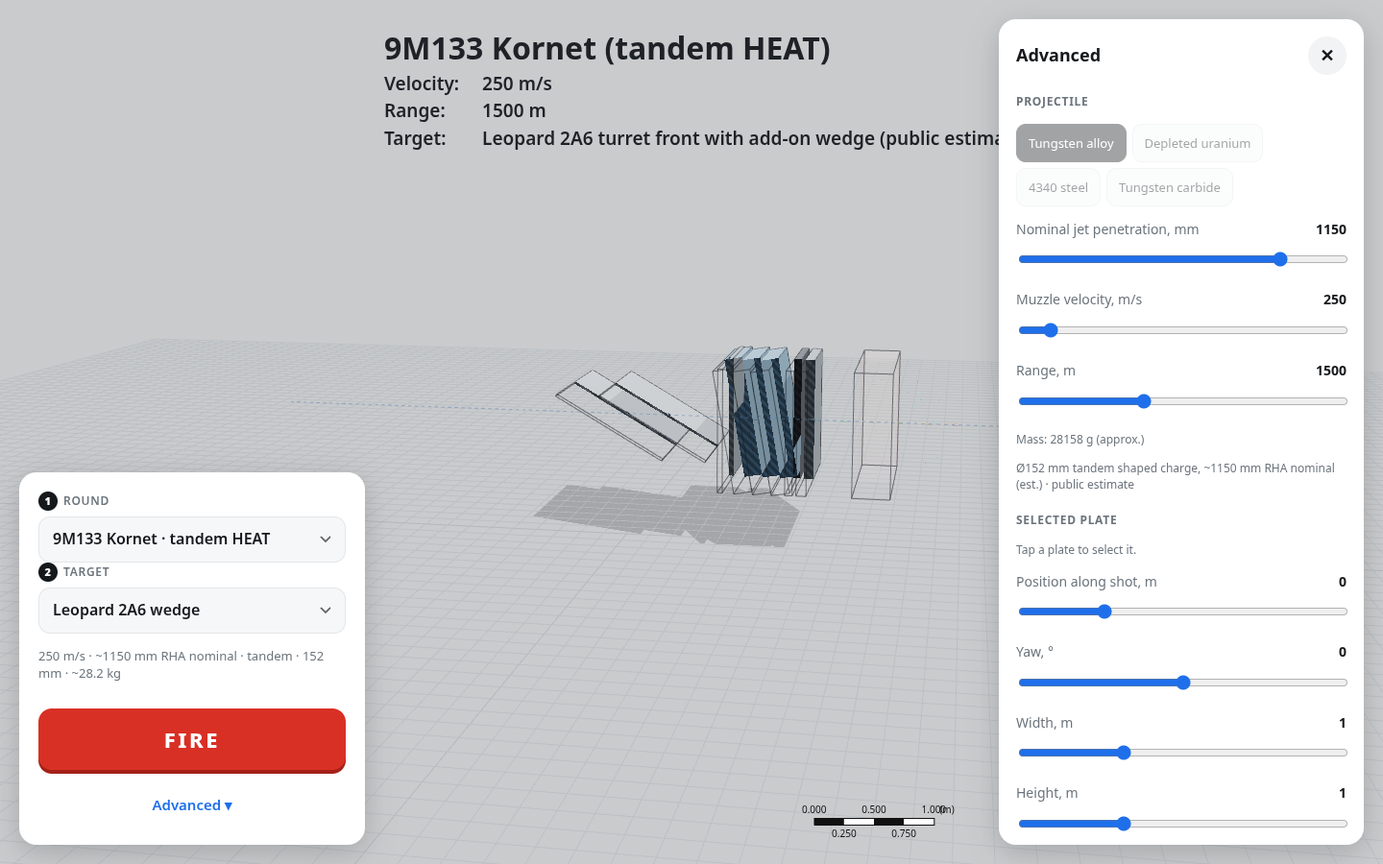
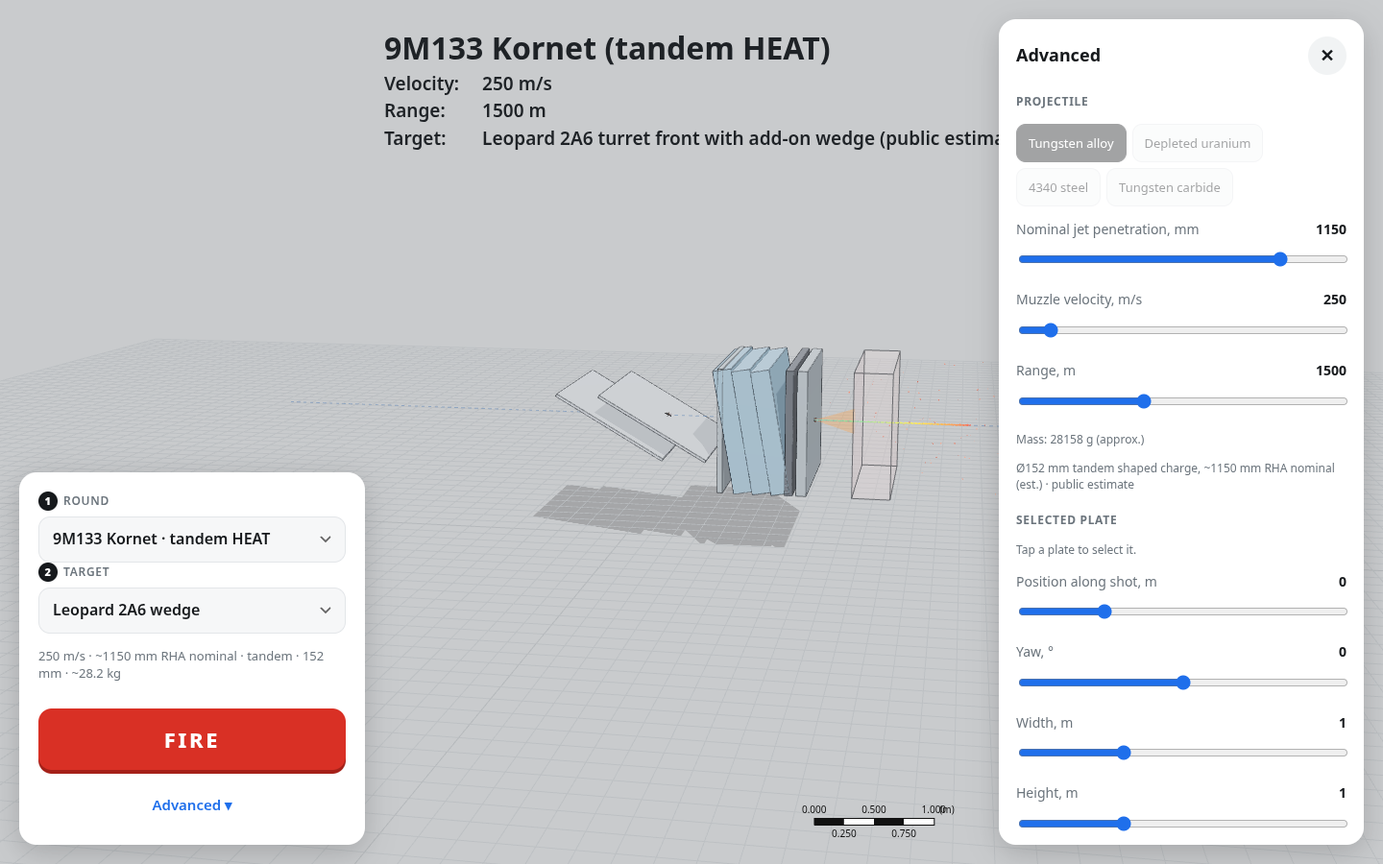
Stage C: damage visuals (shader cutout holes, crater lips, rear bulge + exit petals, ERA bricks, debris cone, mushrooming/break-up rod, HEAT jet particles, Inspect damage camera); sw v8

Changed region(s): [[0.4062, 0.4044, 0.625, 0.5911]]

diff --git a/app.js b/app.js
@@ -6,6 +6,7 @@ import { RoomEnvironment } from 'three/addons/environments/RoomEnvironment.js';
 import { PROJECTILES, CORES, MATERIALS, SCENARIOS, DISCLAIMER } from './data.js';
 import { simulate, impactVelocity, ribBoxes, semiInfRHA } from './physics.js';
 import { buildProjectile } from './projectile.js';
+import { holeHook, createDamage } from './damage.js';
 
 const $ = id => document.getElementById(id);
 const isTouch = matchMedia('(pointer: coarse)').matches || 'ontouchstart' in window;
@@ -37,7 +38,7 @@ function capMat(color, extra = {}) {
   const m = new THREE.MeshStandardMaterial({ color, roughness: .55, metalness: .25, side: THREE.DoubleSide, ...extra });
   m.onBeforeCompile = sh => { sh.fragmentShader = sh.fragmentShader.replace('#include <dithering_fragment>', `#include <dithering_fragment>
     if (!gl_FrontFacing) { float h = step(.5, fract((gl_FragCoord.x + gl_FragCoord.y) / 9.)); gl_FragColor = vec4(mix(diffuseColor.rgb * .55, diffuseColor.rgb * .8, h), 1.); }`); };
-  return regClip(m);
+  return regClip(holeHook(m));
 }
 // colour map (ANSYS-like rainbow)
 const CMAP = [[0, [.1, .2, .85]], [.25, [.1, .75, .95]], [.5, [.2, .85, .3]], [.75, [1, .85, .1]], [1, [.95, .15, .1]]];
@@ -58,7 +59,7 @@ function rodMat(color, rough, metal) {
 
 // ---------------- state ----------------
 const S = { proj: 'm829a3', core: 'du', D: 22, L: 800, pen: 500, v0: 1555, range: 1000, plates: [], target: '', mapMode: 0, sel: -1 };
-let plateMeshes = [], sim = null, simT = 0, playing = false, speed = 1, built = null;
+let inspecting = false, plateMeshes = [], sim = null, simT = 0, playing = false, speed = 1, built = null;
 const clone = o => JSON.parse(JSON.stringify(o));
 
 // ---------------- plates ----------------
@@ -134,7 +135,7 @@ $('cmap').onclick = () => { S.mapMode = 1 - S.mapMode; $('cmap').textContent = '
 $('gMove').onclick = () => { tc.setMode('translate'); pillset(); }; $('gRot').onclick = () => { tc.setMode('rotate'); tc.showX = false; pillset(); };
 const pillset = () => { $('gMove').classList.toggle('on', tc.mode === 'translate'); $('gRot').classList.toggle('on', tc.mode === 'rotate'); tc.showX = tc.mode === 'translate'; };
 let autoFrame = true; $('autoF').onclick = () => { autoFrame = !autoFrame; $('autoF').classList.toggle('on', autoFrame); };
-$('rview').onclick = () => frame(); $('qual').onclick = () => setQuality(quality === 'high' ? 'low' : 'high');
+$('rview').onclick = () => frame(); $('insp').onclick = () => inspect(); $('qual').onclick = () => setQuality(quality === 'high' ? 'low' : 'high');
 $('pp').onclick = () => togglePlay(); $('fire').onclick = () => fire();
 document.querySelectorAll('[data-sp]').forEach(b => b.onclick = () => { speed = +b.dataset.sp; document.querySelectorAll('[data-sp]').forEach(x => x.classList.toggle('on', x === b)); });
 $('scrub').oninput = e => { if (!sim) return; playing = false; $('pp').textContent = '▶'; simT = +e.target.value / 1000 * sim.tEnd; };
@@ -196,8 +197,10 @@ function buildRod() {
   placeRodIdle(); spec();
 }
 function placeRodIdle() { if (!rod) return; const first = Math.min(0, ...S.plates.map(p => p.x - p.t / 2000 - .1)); rod.group.position.set(first - .35, 0, 0); rod.group.rotation.set(0, 0, 0); rod.group.visible = true; tipPlane.constant = 1e3; mapU.uOn.value = 0; }
-let holes = [], debrisMesh = null, jet = null, tipCap = null, flyers = [];
+let holes = [], debrisMesh = null, jet = null, tipCap = null, flyers = [], damage = null;
 function clearSim() {
+  inspecting = false; if (debrisMesh) debrisMesh.visible = true;
+  damage?.dispose(); damage = null;
   sim = null; playing = false; for (const o of [...dyn.children]) if (!rod || o !== rod.group) { dyn.remove(o); o.traverse?.(x => x.geometry?.dispose()); }
   holes = []; debrisMesh = null; jet = null; tipCap = null; flyers = []; plateMeshes.forEach(m => { m.visible = true; m.scale.set(1, 1, 1); });
   placeRodIdle(); drawLegend(); $('rtab').innerHTML = 'Press FIRE to run the shot.'; $('verdict').classList.remove('show'); drawChart(); $('tread').textContent = '0.0 µs'; $('scrub').value = 0; overlay();
@@ -211,7 +214,7 @@ function fire() {
   const rimMat = regClip(new THREE.MeshBasicMaterial({ color: 0xff7a20, transparent: true, opacity: .9, polygonOffset: true, polygonOffsetFactor: -4, toneMapped: false }));
   for (const h of sim.holes) {
     const seg = sim.segs[h.seg], pm = plateMeshes[seg.plate]; const ch = new THREE.Mesh(new THREE.CylinderGeometry(h.r, h.r, 1, 20, 1, true).rotateZ(Math.PI / 2), holeMat); ch.visible = false; dyn.add(ch);
-    const discs = []; for (const s of [h.sIn, h.perforated ? h.sEnd : null]) { if (s == null) continue;
+    const discs = []; for (const s of []) { if (s == null) continue;
       const d = new THREE.Mesh(new THREE.CircleGeometry(h.r * 1.15, 24), holeMat); const r = new THREE.Mesh(new THREE.RingGeometry(h.r * 1.15, h.r * 1.6, 24), rimMat.clone()); regClip(r.material);
       for (const o of [d, r]) { o.position.set(s, 0, 0); o.quaternion.copy(pm.quaternion); o.rotateY(s === h.sIn ? -Math.PI / 2 : Math.PI / 2); o.translateZ(.0015); o.scale.y = 1; o.visible = false; dyn.add(o); }
       const cosO = Math.cos(THREE.MathUtils.degToRad(seg.obl)); d.scale.x = r.scale.x = 1 / Math.max(cosO, .2); discs.push([d, r, s]); }
@@ -223,7 +226,8 @@ function fire() {
     for (let i = 0; i < N; i++) debrisMesh.setColorAt(i, new THREE.Color(1, 1, 1)); dyn.add(debrisMesh); }
   if (p.type === 'CE') { jet = new THREE.Mesh(new THREE.CylinderGeometry(1, 1, 1, 10).rotateZ(Math.PI / 2).translate(.5, 0, 0), rodMat(0xffaa66, .3, .8)); jet.visible = false; dyn.add(jet); }
   tipCap = new THREE.Mesh(new THREE.SphereGeometry(1, 16, 12), regClip(new THREE.MeshBasicMaterial({ color: 0xffaa55, toneMapped: false }))); tipCap.visible = false; dyn.add(tipCap);
-  for (const e of sim.era) { const pm = plateMeshes[e.plate]; const f = []; for (const s of [-1, 1]) { const m = new THREE.Mesh(new THREE.BoxGeometry(S.plates[e.plate].t / 4000, S.plates[e.plate].h, S.plates[e.plate].w), pm.material); m.quaternion.copy(pm.quaternion); m.visible = false; dyn.add(m); f.push({ m, s }); } flyers.push({ e, pm, f }); }
+  for (const e of []) { const pm = plateMeshes[e.plate]; const f = []; for (const s of [-1, 1]) { const m = new THREE.Mesh(new THREE.BoxGeometry(S.plates[e.plate].t / 4000, S.plates[e.plate].h, S.plates[e.plate].w), pm.material); m.quaternion.copy(pm.quaternion); m.visible = false; dyn.add(m); f.push({ m, s }); } flyers.push({ e, pm, f }); }
+  damage = createDamage({ sim, S, plateMeshes, dyn, quality, cmap, regClip, rodD: S.D / 1000, cal: (p.cal || 100) / 1000 });
   simT = 0; playing = true; $('pp').textContent = '❚❚'; drawLegend(); showResults(); closePop(); select(-1, false); if (autoFrame) frame(true);
 }
 function sampleAt(t) { const a = sim.samples; let lo = 0, hi = a.length - 1; if (t <= a[0].t) return a[0]; if (t >= a[hi].t) return a[hi];
@@ -238,13 +242,15 @@ function updateSim() {
     else { const dtR = t - sim.ric.t, pl = S.plates[sim.ric.plate], a = THREE.MathUtils.degToRad(pl.ax), dir = new THREE.Vector3(Math.cos(a), Math.sin(a), 0).normalize(); // deflect along the face
       rod.group.position.set(sim.ric.s, 0, 0).addScaledVector(dir, v0 * .75 * dtR); rod.group.rotation.set(0, 0, a); tipPlane.constant = 1e3; }
     const eroding = s.seg >= 0 && s.u < s.v - 1; mapU.uHot.value = Math.max(mapU.uHot.value * .0 + (eroding ? 1 : 0), s.L < rod.length * .9 ? .55 * Math.exp(-(t - (sim.segEvents.at(-1)?.tOut || t)) / 3e-4) : 0);
-    tipCap.visible = eroding && !ric; if (tipCap.visible) { tipCap.position.set(s.tip, 0, 0); tipCap.scale.setScalar(S.D / 1000 * .75); tipCap.material.color.setRGB(...cmap(S.mapMode ? 1 : s.v / v0)); }
+    tipCap.visible = eroding && !ric; if (tipCap.visible) { tipCap.position.set(s.tip, 0, 0); tipCap.scale.set(S.D / 1000 * .35, S.D / 1000 * (.75 + .35 * Math.min(1, (s.v - s.u) / 900)), S.D / 1000 * (.75 + .35 * Math.min(1, (s.v - s.u) / 900) /* mushroomed head */)); tipCap.material.color.setRGB(...cmap(S.mapMode ? 1 : s.v / v0)); }
     rod.group.visible = s.L > 0.001 || t < 1e-9;
   } else {
     const det = t >= sim.tDet; rod.group.visible = !det || t < sim.tDet + 4e-5; rod.group.position.set((det ? sim.samples[40].body : s.body) - 0, 0, 0); tipPlane.constant = 1e3; mapU.uVal.value = .1;
-    jet.visible = det && s.L > 0; if (jet.visible) { const tail = sim.sDet + Math.min(2000 * (t - sim.tDet), Math.max(0, s.tip - sim.sDet) * .6); const r = p.cal / 1000 * .035; jet.position.set(tail, 0, 0); jet.scale.set(Math.max(.001, s.tip - tail), r, r); mapU.uJet.value = 1; mapU.uTip.value = s.tip; mapU.uTail.value = tail; }
+    jet.visible = false; if (jet.visible) { const tail = sim.sDet + Math.min(2000 * (t - sim.tDet), Math.max(0, s.tip - sim.sDet) * .6); const r = p.cal / 1000 * .035; jet.position.set(tail, 0, 0); jet.scale.set(Math.max(.001, s.tip - tail), r, r); mapU.uJet.value = 1; mapU.uTip.value = s.tip; mapU.uTail.value = tail; }
     tipCap.visible = det && s.seg >= 0; if (tipCap.visible) { tipCap.position.set(s.tip, 0, 0); tipCap.scale.setScalar(p.cal / 1000 * .06); tipCap.material.color.setRGB(...cmap(s.v / 8500)); }
   }
+  damage?.update(t, s, sampleAt);
+  if (inspecting) { rod.group.visible = false; tipCap.visible = false; damage?.hideTransient(); if (debrisMesh) debrisMesh.visible = false; }
   for (const { h, ch, discs } of holes) { const tip = Math.min(sampleAt(Math.min(t, h.t1)).tip, h.sEnd); const on = t >= h.t0; const len = Math.max(.0005, tip - h.sIn);
     ch.visible = on; ch.position.set(h.sIn + len / 2, 0, 0); ch.scale.set(len, 1, 1);
     for (const [d, r, sx] of discs) { const vis = on && (sx === h.sIn || t >= h.t1); d.visible = r.visible = vis; const age = t - (sx === h.sIn ? h.t0 : h.t1); r.material.color.setRGB(...cmap(Math.max(.05, 1 - age / 4e-4))); r.material.opacity = Math.max(.25, 1 - age / 6e-4); } }
@@ -313,6 +319,12 @@ function frame(shot = false) { const b = new THREE.Box3().setFromObject(plateGro
   const tgt = new THREE.Vector3(cx, cy - (narrow ? .22 : .02) * d * vis, 0), pos = new THREE.Vector3(cx + d * .18, cy + d * .2, d);
   if (shot) camTween = { t: 0, p0: camera.position.clone(), q0: controls.target.clone(), p1: pos, q1: tgt }; else { camTween = null; controls.target.copy(tgt); camera.position.copy(pos); controls.update(); } }
 controls.addEventListener('start', () => { camTween = null; });
+// close-up on the damage: exit side of the last perforated plate (or crater of the last plate hit)
+
+function inspect(side = 'rear') { if (!sim || !sim.holes.length) return false; const h = [...sim.holes].reverse().find(h => h.perforated) || sim.holes.at(-1);
+  const x = side === 'rear' && h.perforated ? h.sEnd : h.sIn, d = Math.max(.16, (S.D || 30) / 1000 * 12), sgn = side === 'rear' && h.perforated ? 1 : -1;
+  const tgt = new THREE.Vector3(x, 0, 0), pos = new THREE.Vector3(x + sgn * d * .4, d * .3, d * .9); inspecting = true;
+  camTween = { t: 0, p0: camera.position.clone(), q0: controls.target.clone(), p1: pos, q1: tgt }; return true; }
 addEventListener('resize', () => { camera.aspect = innerWidth / innerHeight; camera.updateProjectionMatrix(); renderer.setSize(innerWidth, innerHeight); });
 camera.aspect = innerWidth / innerHeight; camera.updateProjectionMatrix();
 let last = performance.now();
@@ -330,5 +342,5 @@ try { if (location.hash.startsWith('#s=')) { const o = dec(location.hash.slice(3
 if (!booted) { buildRod(); loadScenario('strv103'); }
 setQuality(quality); toggleSection(false); pillset();
 if ('serviceWorker' in navigator && location.protocol !== 'file:') navigator.serviceWorker.register('./sw.js').catch(e => console.warn('SW', e));
-window.__app = { S, loadScenario, openAdv: () => setAdv(true), markCustom, addPlate: () => $('add').click(), editPlate, setProj: k => setProj(k), fire, seek: f => { if (sim) { playing = false; $('pp').textContent = '▶'; simT = f * sim.tEnd; } }, section: toggleSection, setMap: m => { S.mapMode = m; drawLegend(); }, get sim() { return sim; }, select, frame };
+window.__app = { inspect, camera, controls, plateMeshes: () => plateMeshes, S, loadScenario, openAdv: () => setAdv(true), markCustom, addPlate: () => $('add').click(), editPlate, setProj: k => setProj(k), fire, seek: f => { if (sim) { playing = false; $('pp').textContent = '▶'; simT = f * sim.tEnd; } }, section: toggleSection, setMap: m => { S.mapMode = m; drawLegend(); }, get sim() { return sim; }, select, frame };
 window.__ready = true;

diff --git a/damage.js b/damage.js
@@ -1,0 +1,74 @@
+// Damage visuals (stage C): plate cutout holes, entry crater lips, rear-face bulge + exit petals, ERA bricks,
+// behind-armor debris cone, rod mushroom / break-up fragments, HEAT jet particle stream. Counts scale with quality.
+import * as THREE from 'three';
+const X = new THREE.Vector3(1, 0, 0), tmpM = new THREE.Matrix4(), tmpQ = new THREE.Quaternion(), tmpS = new THREE.Vector3(), tmpP = new THREE.Vector3(), tmpC = new THREE.Color();
+const rnd = (s => () => (s = (s * 16807) % 2147483647) / 2147483647)(12345);
+// plate material hook: discard fragments inside the shot channel (world x-axis cylinder) up to the current crater bottom
+export function holeHook(m) { m.userData.hole = { value: new THREE.Vector4(0, -1e3, 0, -1e3) }; const prev = m.onBeforeCompile;
+  m.onBeforeCompile = (sh, r) => { prev && prev(sh, r); sh.uniforms.uHole = m.userData.hole;
+    sh.vertexShader = 'varying vec3 vWP;\n' + sh.vertexShader.replace('#include <project_vertex>', '#include <project_vertex>\n vWP = (modelMatrix * vec4(transformed, 1.)).xyz;');
+    sh.fragmentShader = 'varying vec3 vWP; uniform vec4 uHole;\n' + sh.fragmentShader.replace('void main() {', 'void main() {\n if (uHole.z > .5 && length(vWP.yz) < uHole.x && vWP.x < uHole.y && vWP.x > uHole.w) discard;'); };
+  m.customProgramCacheKey = () => 'plate-hole'; return m; }
+export function createDamage({ sim, S, plateMeshes, dyn, quality, cmap, regClip, rodD, cal }) {
+  const lo = quality !== 'high', items = [], ke = sim.type === 'KE', v0 = sim.vImpact;
+  const add = o => { dyn.add(o); return o; };
+  const lipMat = regClip(new THREE.MeshStandardMaterial({ color: 0x3a3430, roughness: .9, metalness: .2 }));
+  const glow = regClip(new THREE.MeshBasicMaterial({ color: 0xff7a20, transparent: true, opacity: .9, toneMapped: false, side: THREE.DoubleSide }));
+  // ---- holes: cutout + lip + bulge/petals ----
+  const holes = sim.holes.map(h => { const seg = sim.segs[h.seg], pm = plateMeshes[seg.plate]; if (!pm) return null;
+    const n = X.clone().applyQuaternion(pm.quaternion); if (n.x < 0) n.negate(); const tanO = Math.tan(THREE.MathUtils.degToRad(Math.min(seg.obl, 80)));
+    const r = Math.max(h.r, ke ? rodD * .6 : cal * .03);
+    const qn = new THREE.Quaternion().setFromUnitVectors(new THREE.Vector3(0, 0, 1), n);
+    const lip = add(new THREE.Mesh(new THREE.TorusGeometry(r * 1.35, r * .35, 6, lo ? 12 : 24), lipMat)); lip.position.set(h.sIn, 0, 0).addScaledVector(n, -.001); lip.quaternion.copy(qn); lip.visible = false;
+    const ring = add(new THREE.Mesh(new THREE.RingGeometry(r * .95, r * 1.5, lo ? 12 : 24), glow.clone())); regClip(ring.material); ring.position.copy(lip.position).addScaledVector(n, -.001); ring.quaternion.copy(qn); ring.visible = false;
+    const pmat = pm.material, petMat = regClip(new THREE.MeshStandardMaterial({ color: 0x5a5048, roughness: .7, metalness: .5, side: THREE.DoubleSide, emissive: 0x2a0d00 })); const rb = r * 3.2;
+    const bulge = add(new THREE.Mesh(new THREE.SphereGeometry(1, lo ? 10 : 18, lo ? 6 : 10, 0, Math.PI * 2, 0, Math.PI / 2), pmat)); bulge.quaternion.setFromUnitVectors(new THREE.Vector3(0, 1, 0), n); bulge.position.set(h.sEnd, 0, 0); bulge.visible = false;
+    const np = lo ? 4 : 7, petals = []; if (h.perforated) for (let i = 0; i < np; i++) { const hw = Math.PI * r / np * 1.05, pl = r * 1.4; const g = new THREE.BufferGeometry().setFromPoints([new THREE.Vector3(-hw, 0, 0), new THREE.Vector3(hw, 0, 0), new THREE.Vector3(0, pl, 0)]); g.computeVertexNormals();
+      const piv = new THREE.Group(); const p = new THREE.Mesh(g, petMat); piv.add(p); piv.position.set(h.sEnd, 0, 0); piv.quaternion.copy(qn); piv.rotateZ(i / np * Math.PI * 2); piv.visible = false; add(piv); petals.push({ piv, p }); }
+    return { h, seg, pm, r, tanO, lip, ring, bulge, rb, petals }; }).filter(Boolean);
+  // ---- ERA bricks ----
+  const bricks = [];
+  for (const e of sim.era) { const pm = plateMeshes[e.plate], p = S.plates[e.plate]; if (!pm) continue; const k = lo ? 3 : 5, n = 2 * k * k;
+    const im = add(new THREE.InstancedMesh(new THREE.BoxGeometry(p.t / 2000, p.h / k * .96, p.w / k * .96), regClip(new THREE.MeshStandardMaterial({ color: pm.material.color, roughness: .6, metalness: .25 })), n)); im.frustumCulled = false; im.visible = false;
+    const nrm = X.clone().applyQuaternion(pm.quaternion), parts = [];
+    for (let s = 0; s < 2; s++) for (let i = 0; i < k; i++) for (let j = 0; j < k; j++) { const off = new THREE.Vector3((s ? 1 : -1) * p.t / 4000, (i + .5) / k * p.h - p.h / 2, (j + .5) / k * p.w - p.w / 2).applyQuaternion(pm.quaternion);
+      const rad = off.clone().sub(nrm.clone().multiplyScalar(off.dot(nrm))); const vel = nrm.clone().multiplyScalar((s ? 1 : -1) * (250 + 150 * rnd())).addScaledVector(rad.normalize(), 60 + 120 * rnd());
+      parts.push({ off, vel, spin: new THREE.Vector3(rnd() - .5, rnd() - .5, rnd() - .5).normalize(), w: 2e4 * (.5 + rnd()) }); }
+    bricks.push({ e, pm, im, parts }); }
+  // ---- behind-armor debris cone (sized from physics debris spread) ----
+  let cone = null; const lastPerf = [...holes].reverse().find(o => o.h.perforated);
+  if (lastPerf && sim.debris.length) { const ang = sim.debris.map(d => Math.atan2(Math.hypot(d.v[1], d.v[2]), Math.max(d.v[0], 1))).sort((a, b) => a - b); const half = Math.min(.7, ang[Math.floor(ang.length * .9)] || .3);
+    const m = add(new THREE.Mesh(new THREE.ConeGeometry(Math.tan(half), 1, lo ? 16 : 32, 1, true).rotateZ(Math.PI / 2).translate(.5, 0, 0), regClip(new THREE.MeshBasicMaterial({ color: 0xffa040, transparent: true, opacity: .25, depthWrite: false, side: THREE.DoubleSide, toneMapped: false }))));
+    m.position.set(lastPerf.h.sEnd, 0, 0); m.visible = false; cone = { m, t0: lastPerf.h.t1, half, v: Math.max(300, ke ? sim.vres || 600 : 1500) }; }
+  // ---- rod fragments: ERA broken segments + break-up when stopped ----
+  const frags = [];
+  if (ke) { const fm = regClip(new THREE.MeshStandardMaterial({ color: 0x8a8f94, roughness: .4, metalness: .8 }));
+    sim.segEvents.forEach(ev => { const nt = ev.notes.find(n => /ERA: −(\d+) mm rod/.test(n)); if (!nt) return; const dL = +nt.match(/−(\d+)/)[1] / 1000; if (dL < .005) return;
+      const nf = lo ? 2 : 4; for (let i = 0; i < nf; i++) frags.push({ t0: ev.tIn ?? 0, p: [sim.segs[ev.seg].sIn, 0, 0], v: [v0 * .25, (rnd() - .3) * 160, (rnd() - .5) * 120], len: dL / nf, w: 3e3 * (rnd() + .5) }); });
+    if (sim.outcome === 'STOPPED') { const last = sim.samples.at(-1); const nf = lo ? 3 : 7; for (let i = 0; i < nf; i++) frags.push({ t0: last.t - 2e-5, p: [last.tip - rodD, 0, 0], v: [-40 - 60 * rnd(), (rnd() - .5) * 120, (rnd() - .5) * 120], len: rodD * (1 + 2 * rnd()), w: 5e3 * rnd() }); }
+    for (const f of frags) { f.m = add(new THREE.Mesh(new THREE.CylinderGeometry(rodD / 2, rodD / 2, f.len, 8).rotateZ(Math.PI / 2), fm)); f.m.visible = false; } }
+  // ---- jet particle stream ----
+  let jetP = null; if (!ke) { const n = lo ? 40 : 140; const im = add(new THREE.InstancedMesh(new THREE.SphereGeometry(1, 6, 4), regClip(new THREE.MeshBasicMaterial({ toneMapped: false })), n)); im.frustumCulled = false; im.visible = false;
+    for (let i = 0; i < n; i++) im.setColorAt(i, tmpC.setRGB(1, 1, 1)); jetP = { im, n, tb: 2.16e-6 * cal * 1000 }; }
+  return {
+    update(t, s, sampleAt) {
+      for (const o of holes) { const { h, pm, r, tanO } = o; const on = t >= h.t0; const tip = Math.min(sampleAt(Math.min(t, h.t1)).tip, h.sEnd), done = h.perforated && t >= h.t1;
+        pm.material.userData.hole?.value.set(r, done ? h.sEnd + r * tanO + .01 : tip, on ? 1 : 0, h.sIn - r * tanO - .02);
+        o.lip.visible = on; o.ring.visible = on; const age = t - h.t0; o.ring.material.color.setRGB(...cmap(Math.max(.05, 1 - age / 4e-4))); o.ring.material.opacity = Math.max(.15, 1 - age / 6e-4);
+        const rem = h.sEnd - tip, Deff = r * 2; const bk = on && !done ? THREE.MathUtils.clamp(1 - rem / (2.5 * Deff), 0, 1) : (done ? 0 : 0);
+        const stayBulge = !h.perforated && on && rem < 2.5 * Deff; o.bulge.visible = bk > .01 || stayBulge; if (o.bulge.visible) { const kk = Math.max(bk, stayBulge ? 1 - rem / (2.5 * Deff) : 0); o.bulge.scale.set(o.rb * (.5 + .5 * kk), o.rb * .6 * kk + 1e-4, o.rb * (.5 + .5 * kk)); }
+        const pa = done ? Math.min(1, (t - h.t1) / 6e-5) : 0; for (const { piv, p } of o.petals) { piv.visible = done; p.rotation.x = 0; p.position.set(0, o.r, 0); p.rotation.set(pa * 1.2, 0, 0); } }
+      for (const b of bricks) { const on = t >= b.e.t0; b.im.visible = on; b.pm.visible = !on; if (!on) continue; const age = Math.max(0, t - b.e.t0);
+        b.parts.forEach((q, i) => { tmpP.copy(b.pm.position).add(q.off).addScaledVector(q.vel, age); tmpQ.setFromAxisAngle(q.spin, age * q.w).multiply(b.pm.quaternion); tmpM.compose(tmpP, tmpQ, tmpS.set(1, 1, 1)); b.im.setMatrixAt(i, tmpM); }); b.im.instanceMatrix.needsUpdate = true; }
+      if (cone) { const age = t - cone.t0, on = age > 0 && age < 1.2e-3; cone.m.visible = on; if (on) { const L = Math.min(.6, .03 + cone.v * age * .4); cone.m.scale.set(L, L, L); cone.m.material.opacity = .3 * (1 - age / 1.2e-3); } }
+      for (const f of frags) { const age = t - f.t0; f.m.visible = age > 0; if (age > 0) { f.m.position.set(f.p[0] + f.v[0] * age, f.p[1] + f.v[1] * age, f.p[2] + f.v[2] * age); f.m.rotation.set(0, age * f.w * .3, age * f.w); } }
+      if (jetP) { const det = t >= sim.tDet, { im, n, tb } = jetP; im.visible = det && s.L > 0 && s.tip > sim.sDet; if (im.visible) { const tail = sim.sDet + Math.min(2000 * (t - sim.tDet), Math.max(0, s.tip - sim.sDet) * .6), len = Math.max(.001, s.tip - tail);
+          const broken = t - sim.tDet > tb, r0 = cal * .07; // visually thickened ~2× for readability
+          for (let i = 0; i < n; i++) { const f = i / (n - 1); const jit = broken ? (rnd() - .5) * .3 / n : 0; const x = tail + len * Math.min(1, Math.max(0, f + jit)); const rr = r0 * (broken ? .55 + .3 * ((i * 7) % 3) / 2 : .8) * (.6 + .4 * f);
+            tmpM.compose(tmpP.set(x, broken ? (rnd() - .5) * r0 * .4 : 0, broken ? (rnd() - .5) * r0 * .4 : 0), tmpQ.identity(), tmpS.set(broken ? rr : Math.max(rr, len / n * .9), rr, rr)); im.setMatrixAt(i, tmpM); im.setColorAt(i, tmpC.setRGB(...cmap(.25 + .75 * f))); }
+          im.instanceMatrix.needsUpdate = true; im.instanceColor.needsUpdate = true; } }
+    },
+    hideTransient() { if (cone) cone.m.visible = false; for (const f of frags) f.m.visible = false; },
+    dispose() { for (const o of holes) o.pm.material.userData.hole?.value.set(0, -1e3, 0, -1e3); for (const b of bricks) b.pm.visible = true; },
+  };
+}

diff --git a/index.html b/index.html
@@ -114,7 +114,7 @@ select.sm{border:1px solid var(--line);border-radius:10px;padding:8px;background
  <div class="row"><label>Ribs (front face) <b id="vRB"></b></label><input id="iRB" type="range" min="0" max="12" step="1"></div>
  <div class="seg"><button class="on" id="gMove">Move gizmo</button><button id="gRot">Rotate gizmo</button><button id="dup">Duplicate</button></div>
  <h4>View</h4>
- <div class="seg"><button id="sec">Section: off</button><button id="cmap">Map: velocity</button><button id="qual">Quality: High</button><button id="rview">Reset view</button><button id="autoF" class="on">Auto-frame</button></div>
+ <div class="seg"><button id="sec">Section: off</button><button id="cmap">Map: velocity</button><button id="qual">Quality: High</button><button id="rview">Reset view</button><button id="insp">Inspect damage</button><button id="autoF" class="on">Auto-frame</button></div>
  <div class="row"><label>Section offset, mm <b id="vSO">0</b></label><input id="iSO" type="range" min="-600" max="600" step="5" value="0"></div>
  <h4>Playback</h4>
  <div id="play"><button class="sb" id="pp">▶</button><input id="scrub" type="range" min="0" max="1000" value="0"><span id="tread">0.0 µs</span></div>

diff --git a/sw.js b/sw.js
@@ -1,6 +1,6 @@
-const CACHE = "tanksim-v7";
+const CACHE = "tanksim-v8";
 const ASSETS = ["./", "./index.html", "./manifest.json", "./icons/icon-192.png", "./icons/icon-512.png", "./icons/icon-maskable-512.png", "./icons/apple-touch-icon.png",
-  "./app.js", "./data.js", "./physics.js", "./projectile.js", "./vendor/build/three.module.js", "./vendor/jsm/controls/OrbitControls.js", "./vendor/jsm/controls/TransformControls.js", "./vendor/jsm/environments/RoomEnvironment.js"];
+  "./app.js", "./data.js", "./physics.js", "./projectile.js", "./damage.js", "./vendor/build/three.module.js", "./vendor/jsm/controls/OrbitControls.js", "./vendor/jsm/controls/TransformControls.js", "./vendor/jsm/environments/RoomEnvironment.js"];
 self.addEventListener('install', e => { e.waitUntil(caches.open(CACHE).then(c => c.addAll(ASSETS)).then(() => self.skipWaiting())); });
 self.addEventListener('activate', e => { e.waitUntil(caches.keys().then(ks => Promise.all(ks.filter(k => k !== CACHE).map(k => caches.delete(k)))).then(() => self.clients.claim())); });
 self.addEventListener('fetch', e => {

diff --git a/README.md b/README.md
@@ -22,7 +22,19 @@ Earlier versions: tag `v1-showroom` (tank showroom) and tag `v2-sandbox-complex`
 - Per-plate results table and v/L-vs-time chart.
 - Save/Load (localStorage) and share links.
 
-On phones the controls are a bottom sheet, and Advanced opens as a second sheet. The app is a PWA (offline cache `tanksim-v7`).
+On phones the controls are a bottom sheet, and Advanced opens as a second sheet. The app is a PWA (offline cache `tanksim-v8`).
+
+## Damage visuals (damage.js)
+Visual approximations, driven by the physics output:
+- **Plate holes:** real cutouts made by a shader discard along the shot channel. They grow with the crater bottom.
+- **Entry:** a crater lip with a glowing rim.
+- **Rear face:** the rear face bulges as the tip approaches, then petals open at the exit.
+- **ERA:** blocks break into tumbling bricks.
+- **Debris:** a behind-armor debris cone sized from the physics debris spread, plus the fragment instances.
+- **Rod:** a mushroomed hot head while eroding, the length broken off by ERA tumbling away, and break-up fragments when the rod is stopped.
+- **HEAT jet:** a particle stream, continuous and then particulated after breakup (drawn about 2× thicker for readability).
+
+Advanced → View → **Inspect damage** zooms onto the exit hole. Mobile and Low quality use fewer bricks, petals and particles.
 
 ## Physics (physics.js): time-stepped along the shot line, runs in a few ms
 - **Geometry:** a ray/plate intersection gives the LOS and obliquity of every plate and rib.
